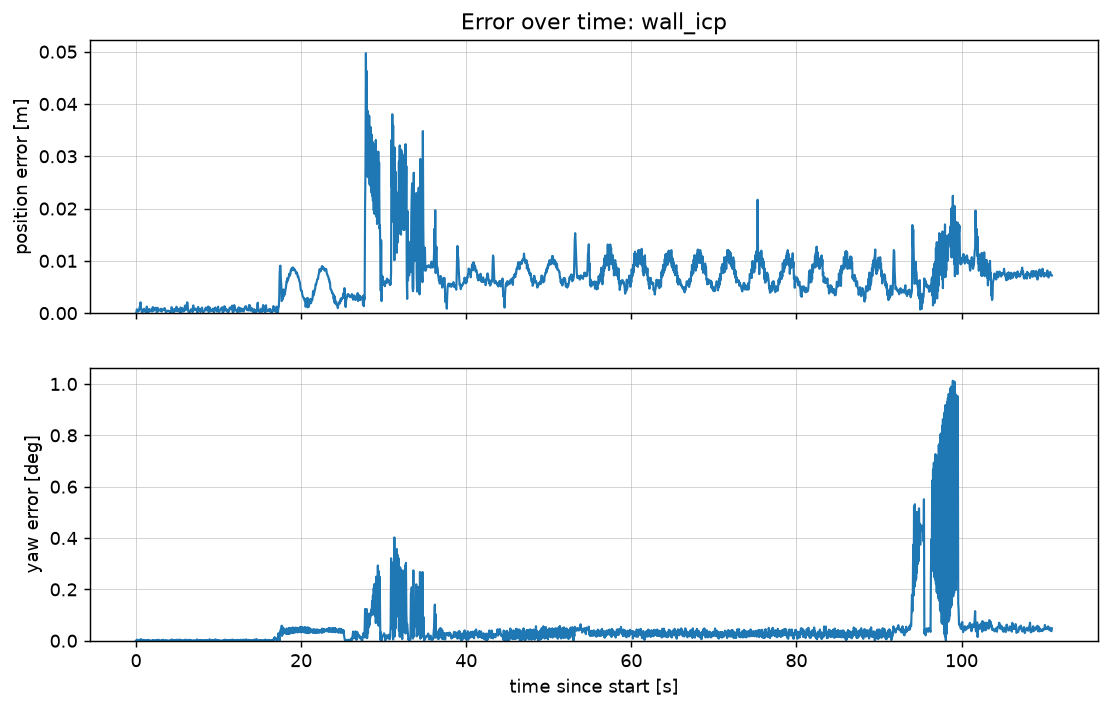
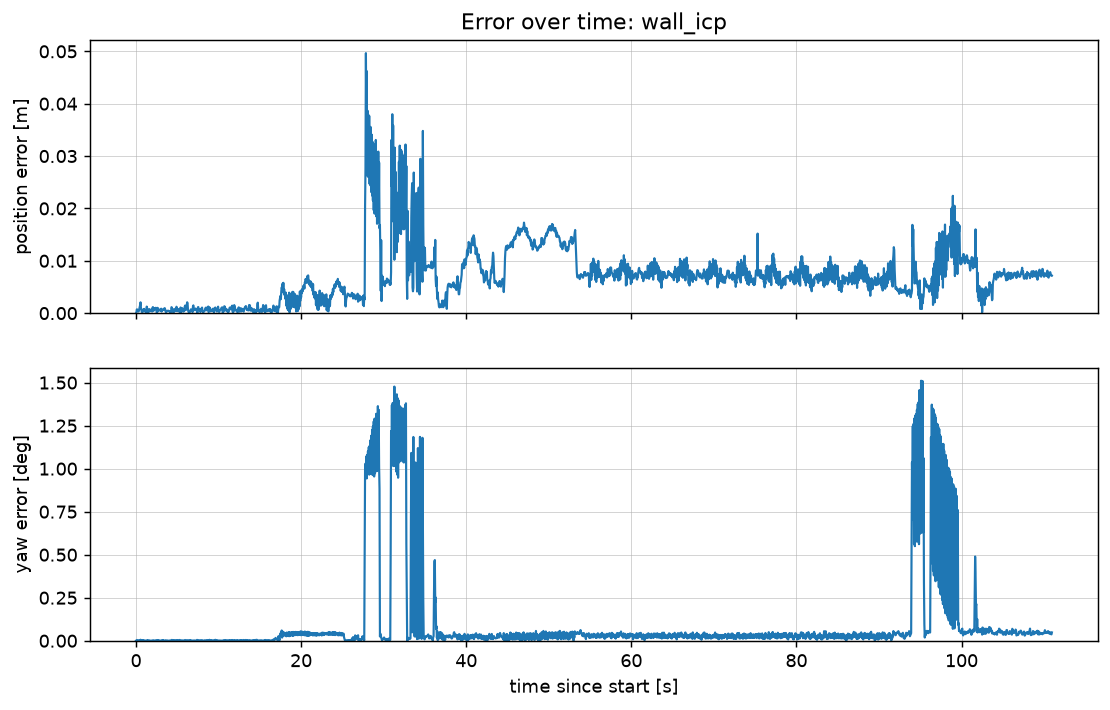
Score against the odom to base_link transform instead of /odom_sim

diff --git a/lidar_odom/extract_gt.py b/lidar_odom/extract_gt.py
@@ -3,6 +3,12 @@
 I kept this apart from extract.py on purpose. The odometry code only ever
 loads sensors.npz, and the ground truth sits in its own file that only
 evaluate.py opens. That way it is easy to check that no algorithm touches it.
+
+The bag has the ground truth twice: as /odom_sim messages and as the
+odom -> base_link transform on /tf. I first used /odom_sim because it is
+simpler to read. Then I compared the two and found they are not the same,
+the transform is exactly one sample (50 ms) behind /odom_sim. The assignment
+names the transform as the ground truth, so that is the one I read here.
 """
 import sys
 from pathlib import Path
@@ -13,7 +19,9 @@ from rosbags.typesys import Stores, get_typestore
 
 TYPESTORE = get_typestore(Stores.ROS2_HUMBLE)
 
-GT_TOPIC = "/odom_sim"
+GT_TOPIC = "/tf"
+GT_PARENT = "odom"
+GT_CHILD = "base_link"
 
 
 def main(bag_dir, out_path):
@@ -22,13 +30,18 @@ def main(bag_dir, out_path):
         conns = [c for c in reader.connections if c.topic == GT_TOPIC]
         for conn, _, raw in reader.messages(connections=conns):
             msg = reader.deserialize(raw, conn.msgtype)
-            p, q = msg.pose.pose.position, msg.pose.pose.orientation
-            # yaw out of the quaternion. The robot stays flat on the floor,
-            # so roll and pitch are zero and yaw is all I need.
-            yaw = np.arctan2(2 * (q.w * q.z + q.x * q.y),
-                             1 - 2 * (q.y * q.y + q.z * q.z))
-            t = msg.header.stamp.sec + msg.header.stamp.nanosec * 1e-9
-            rows.append([t, p.x, p.y, yaw])
+            # /tf carries lots of transforms (wheels, lift, ...). I only
+            # want the one from odom to base_link.
+            for tf in msg.transforms:
+                if tf.header.frame_id != GT_PARENT or tf.child_frame_id != GT_CHILD:
+                    continue
+                p, q = tf.transform.translation, tf.transform.rotation
+                # yaw out of the quaternion. The robot stays flat on the
+                # floor, so roll and pitch are zero and yaw is all I need.
+                yaw = np.arctan2(2 * (q.w * q.z + q.x * q.y),
+                                 1 - 2 * (q.y * q.y + q.z * q.z))
+                t = tf.header.stamp.sec + tf.header.stamp.nanosec * 1e-9
+                rows.append([t, p.x, p.y, yaw])
     Path(out_path).parent.mkdir(parents=True, exist_ok=True)
     # same columns as the result files (t, x, y, yaw) so evaluate.py can
     # read both with one loader. 9 decimals keeps the timestamps exact
